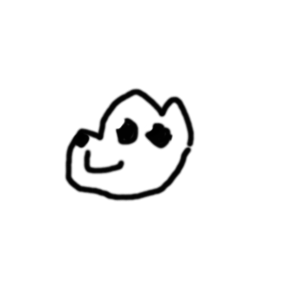
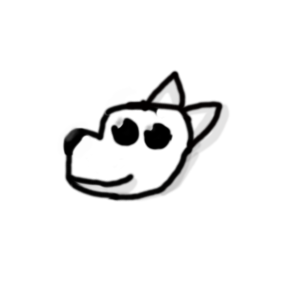
updated doggo (other doggo died)

Changed region(s): [[0.21, 0.21, 0.78, 0.66], [0.54, 0.42, 0.57, 0.45]]

diff --git a/src/App.vue b/src/App.vue
@@ -1,38 +1,39 @@
 <script setup lang="ts">
-import { computed, reactive } from "vue";
-import RowComp from "@/components/RowComp.vue";
-import AddItemModal from "@/components/AddItemModal.vue";
+import { computed, reactive } from 'vue'
+import RowComp from '@/components/RowComp.vue'
+import AddItemModal from '@/components/AddItemModal.vue'
 
 const rows = reactive([
-  { id: 1, label: "Chuck Steak", quantity: 1 },
-  { id: 2, label: "Ribeye", quantity: 2 },
-  { id: 3, label: "T-Bone", quantity: 3 },
-  { id: 4, label: "Sirloin", quantity: 4 },
-  { id: 5, label: "Brisket", quantity: 5 },
-  { id: 6, label: "Flank", quantity: 6 },
-  { id: 7, label: "Skirt", quantity: 7 },
-  { id: 8, label: "New Item", quantity: 1 },
-]);
+  { id: 1, label: 'Chuck Steak', quantity: 1 },
+  { id: 2, label: 'Ribeye', quantity: 2 },
+  { id: 3, label: 'T-Bone', quantity: 3 },
+  { id: 4, label: 'Sirloin', quantity: 4 },
+  { id: 5, label: 'Brisket', quantity: 5 },
+  { id: 6, label: 'Flank', quantity: 6 },
+  { id: 7, label: 'Skirt', quantity: 7 },
+  { id: 8, label: 'New Item', quantity: 1 },
+])
 
 const sortedRows = computed(() => {
-  return [...rows].sort((a, b) => a.label.localeCompare(b.label));
-});
+  return [...rows].sort((a, b) => a.label.localeCompare(b.label))
+})
 
 const updateQuantity = (id: number, quantity: number) => {
-  const row = rows.find((r) => r.id === id);
+  const row = rows.find((r) => r.id === id)
   if (row) {
-    row.quantity = Math.max(0, quantity);
+    row.quantity = Math.max(0, quantity)
   }
-};
+}
 
 const addItem = (label: string) => {
-  const newId = rows.length ? Math.max(...rows.map((r) => r.id)) + 1 : 1;
-  rows.push({ id: newId, label, quantity: 0 });
-};
+  const newId = rows.length ? Math.max(...rows.map((r) => r.id)) + 1 : 1
+  rows.push({ id: newId, label, quantity: 0 })
+}
 </script>
 
 <template>
-  <div class="flex h-screen w-screen items-center justify-center bg-gray-900">
+  <div class="flex flex-col h-screen w-screen items-center justify-center bg-gray-900">
+    <img src="./assets/doggo.png" alt="" />
     <div class="w-full p-6 bg-gray-800 rounded-lg">
       <div class="space-y-4 h-64 overflow-y-auto">
         <RowComp
